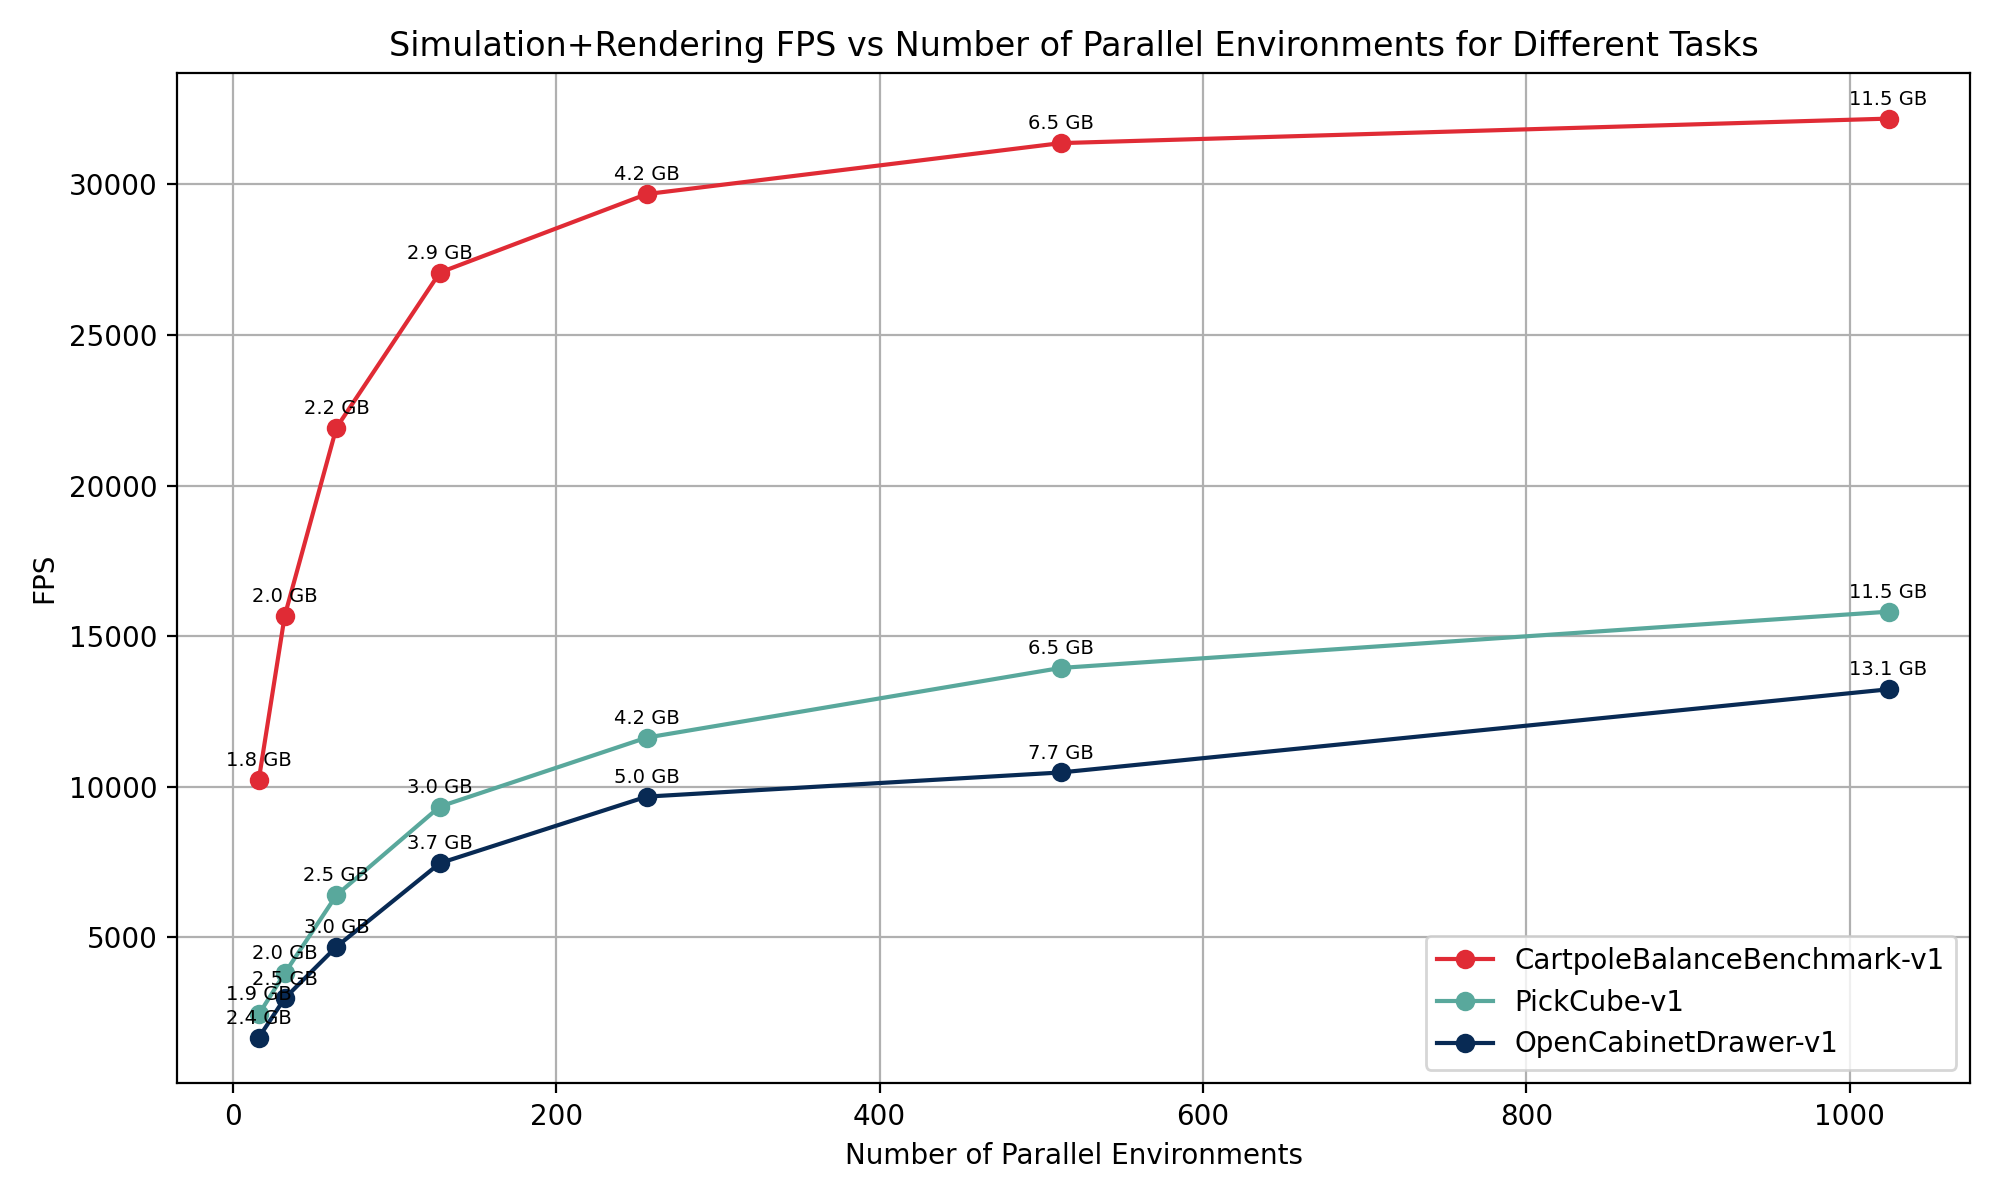
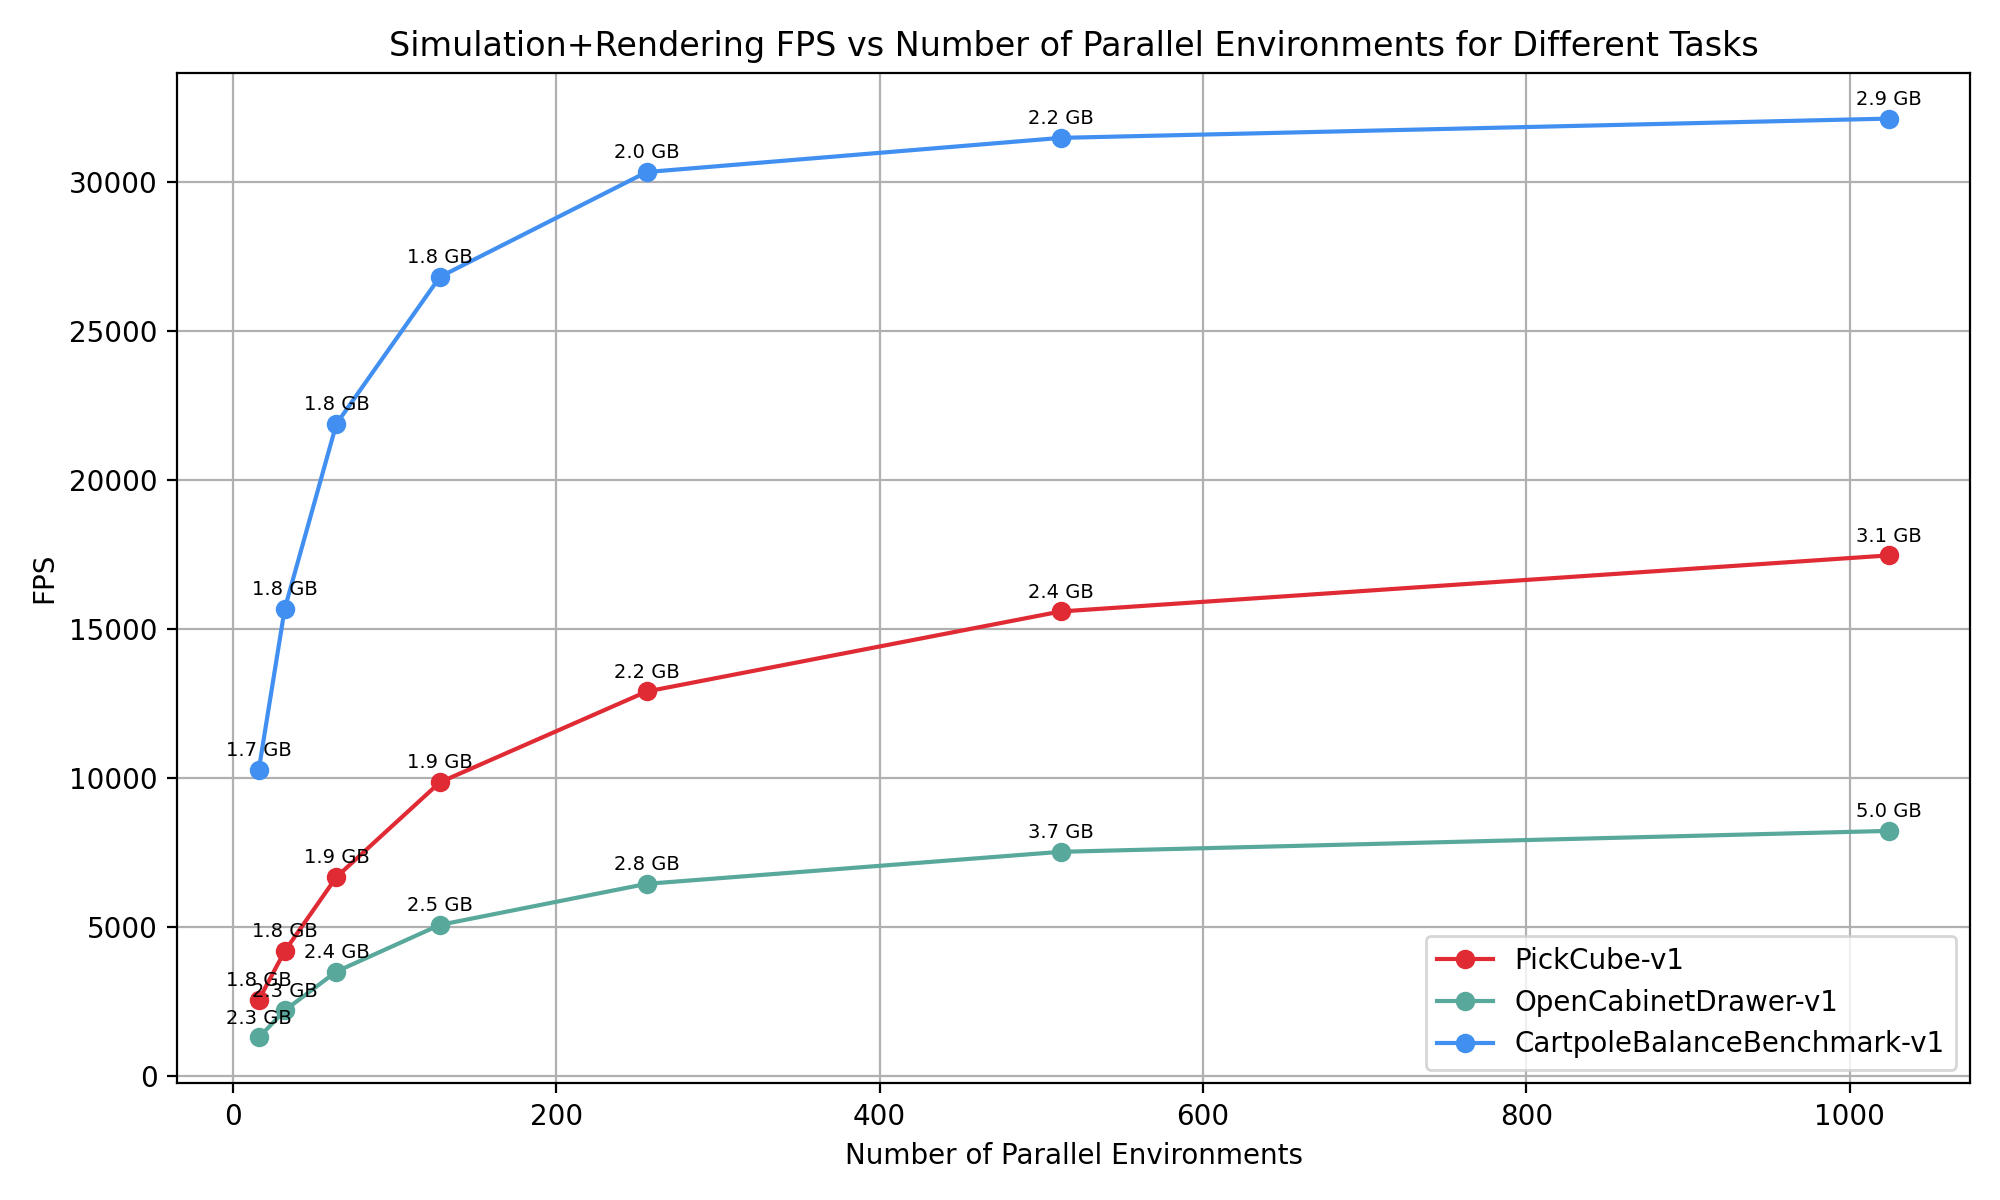
[Documentation] Update benchmark docs with new numbers and files (#1104)
* Update citation.md

* updated figures

diff --git a/mani_skill/examples/benchmarking/plot_results.py b/mani_skill/examples/benchmarking/plot_results.py
@@ -175,7 +175,7 @@ def main(args):
 
     # generate plot for RT/google dataset settings, which is 1x 640x480 cameras
     for obs_mode in ["RGB", "Depth"]:
-        fig, ax = plt.subplots(figsize=(8, 6))
+        fig, ax = plt.subplots()
         ax.set_title(f"{args.env_id}: FPS with 1x 640x480 {obs_mode} Cameras")
         draw_bar_plot_envs_vs_fps(ax, data, {"env_id": args.env_id, "obs_mode": obs_mode.lower(), "num_cameras": 1, "camera_width": 640, "camera_height": 480}, annotate_label="env.step/gpu_mem_use")
         plt.legend()
@@ -187,7 +187,7 @@ def main(args):
 
     # generate plot for droit dataset settings, which is 3x 320x180 cameras
     for obs_mode in ["RGB", "Depth"]:
-        fig, ax = plt.subplots(figsize=(8, 6))
+        fig, ax = plt.subplots()
         ax.set_title(f"{args.env_id}: FPS with 3x 320x180 {obs_mode} Cameras")
         draw_bar_plot_envs_vs_fps(ax, data, {"env_id": args.env_id, "obs_mode": obs_mode.lower(), "num_cameras": 3, "camera_width": 320, "camera_height": 180}, annotate_label="env.step/gpu_mem_use")
         save_path = osp.join(root_save_path, f"fps_droid_dataset_setup_{obs_mode.lower()}.png")
@@ -224,19 +224,16 @@ def main(args):
         print(f"Saved figure to {save_path}")
 
 
-
-
     ### Special figures for maniskill ###
-    if "maniskill" in data.keys():
+    if "ManiSkill3" in data.keys():
         # Generate line plots of rendering FPS for different env_ids against number of parallel environments
-        fig, ax = plt.subplots(figsize=(10, 4))
+        fig, ax = plt.subplots(figsize=(10, 6))
         ax.grid(True)
         ax.set_xlabel("Number of Parallel Environments")
         ax.set_ylabel("FPS")
         ax.set_title("Simulation+Rendering FPS vs Number of Parallel Environments for Different Tasks")
-
-        df = data["maniskill"]
-        df = df[(df["obs_mode"] == "rgb") & (df["num_envs"] >= 16) & (df["num_cameras"] == 1) & (df["camera_width"] == 128)]
+        df = data["ManiSkill3"]
+        df = df[(df["obs_mode"] == "rgb") & (df["num_envs"] >= 16) & (df["num_envs"] <= 1024) & (df["num_cameras"] == 1) & (df["camera_width"] == 128)]
         env_ids = df["env_id"].unique()
         for i, env_id in enumerate(env_ids):
             env_df = df[df["env_id"] == env_id].sort_values("num_envs")

diff --git a/docs/source/user_guide/additional_resources/performance_benchmarking.md b/docs/source/user_guide/additional_resources/performance_benchmarking.md
@@ -39,41 +39,41 @@ Video of the task above with ManiSkill on top and Isaac Lab below.
 ### State
 
 CartPoleBalance simulation only performance results showing FPS vs number of environments, annotated by GPU memory usage in GB on top of data points.
-:::{figure} benchmarking_results/rtx_4090/fps:num_envs_state.png
+:::{figure} benchmarking_results/rtx_4090/fps_num_envs_state.png
 :::
 
 ### Realistic RGB Camera Setups
 
 The [Open-X](https://robotics-transformer-x.github.io/) and [Droid](https://droid-dataset.github.io/) datasets are two of the largest real-world robotics datasets. Open-X typically has a single 640x480 RGB observation while Droid has 3 320x180 RGB observations. The next 2 figures show the performance of simulators when mimicing the real world camera setups.
 
-:::{figure} benchmarking_results/rtx_4090/fps:rt_dataset_setup_bar.png
+:::{figure} benchmarking_results/rtx_4090/fps_rt_dataset_setup_rgb_bar.png
 :::
 
-:::{figure} benchmarking_results/rtx_4090/fps:droid_dataset_setup_bar.png
+:::{figure} benchmarking_results/rtx_4090/fps_droid_dataset_setup_rgb_bar.png
 :::
 
 ### RGB
 
 CartPoleBalance simulation+rendering (rgb only) performance results showing FPS vs number of environments, annotated by GPU memory usage in GB on top of data points.
-:::{figure} benchmarking_results/rtx_4090/fps:num_envs_1x512x512_rgb.png
+:::{figure} benchmarking_results/rtx_4090/fps_num_envs_1x512x512_rgb.png
 :::
 
-:::{figure} benchmarking_results/rtx_4090/fps:num_envs_1x256x256_rgb.png
+:::{figure} benchmarking_results/rtx_4090/fps_num_envs_1x256x256_rgb.png
 :::
 
-:::{figure} benchmarking_results/rtx_4090/fps:num_envs_1x128x128_rgb.png
+:::{figure} benchmarking_results/rtx_4090/fps_num_envs_1x128x128_rgb.png
 :::
 
 #### RGB+Depth
 
 CartPoleBalance simulation+rendering (rgb+depth) performance results showing FPS vs number of environments, annotated by GPU memory usage in GB on top of data points.
-:::{figure} benchmarking_results/rtx_4090/fps:num_envs_1x512x512_rgb+depth.png
+:::{figure} benchmarking_results/rtx_4090/fps_num_envs_1x512x512_rgb+depth.png
 :::
 
-:::{figure} benchmarking_results/rtx_4090/fps:num_envs_1x256x256_rgb+depth.png
+:::{figure} benchmarking_results/rtx_4090/fps_num_envs_1x256x256_rgb+depth.png
 :::
 
-:::{figure} benchmarking_results/rtx_4090/fps:num_envs_1x128x128_rgb+depth.png
+:::{figure} benchmarking_results/rtx_4090/fps_num_envs_1x128x128_rgb+depth.png
 :::
 ## Commands for Reproducing the Results
 

diff --git a/docs/source/user_guide/additional_resources/citation.md b/docs/source/user_guide/additional_resources/citation.md
@@ -5,10 +5,10 @@ If you use ManiSkill3 (versions `mani_skill>=3.0.0`) in your work please cite ou
 ```
 @article{taomaniskill3,
   title={ManiSkill3: GPU Parallelized Robotics Simulation and Rendering for Generalizable Embodied AI},
-  author={Stone Tao and Fanbo Xiang and Arth Shukla and Yuzhe Qin and Xander Hinrichsen and Xiaodi Yuan and Chen Bao and Xinsong Lin and Yulin Liu and Tse-kai Chan and Yuan Gao and Xuanlin Li and Tongzhou Mu and Nan Xiao and Arnav Gurha and Zhiao Huang and Roberto Calandra and Rui Chen and Shan Luo and Hao Su},
-  journal = {arXiv preprint arXiv:2410.00425},
-  year={2024},
-} 
+  author={Stone Tao and Fanbo Xiang and Arth Shukla and Yuzhe Qin and Xander Hinrichsen and Xiaodi Yuan and Chen Bao and Xinsong Lin and Yulin Liu and Tse-kai Chan and Yuan Gao and Xuanlin Li and Tongzhou Mu and Nan Xiao and Arnav Gurha and Viswesh Nagaswamy Rajesh and Yong Woo Choi and Yen-Ru Chen and Zhiao Huang and Roberto Calandra and Rui Chen and Shan Luo and Hao Su},
+  journal = {Robotics: Science and Systems},
+  year={2025},
+}
 ```
 
 If you use ManiSkill2 (version `mani_skill==0.5.3` or lower) in your work please cite the ManiSkill2 paper as so:
